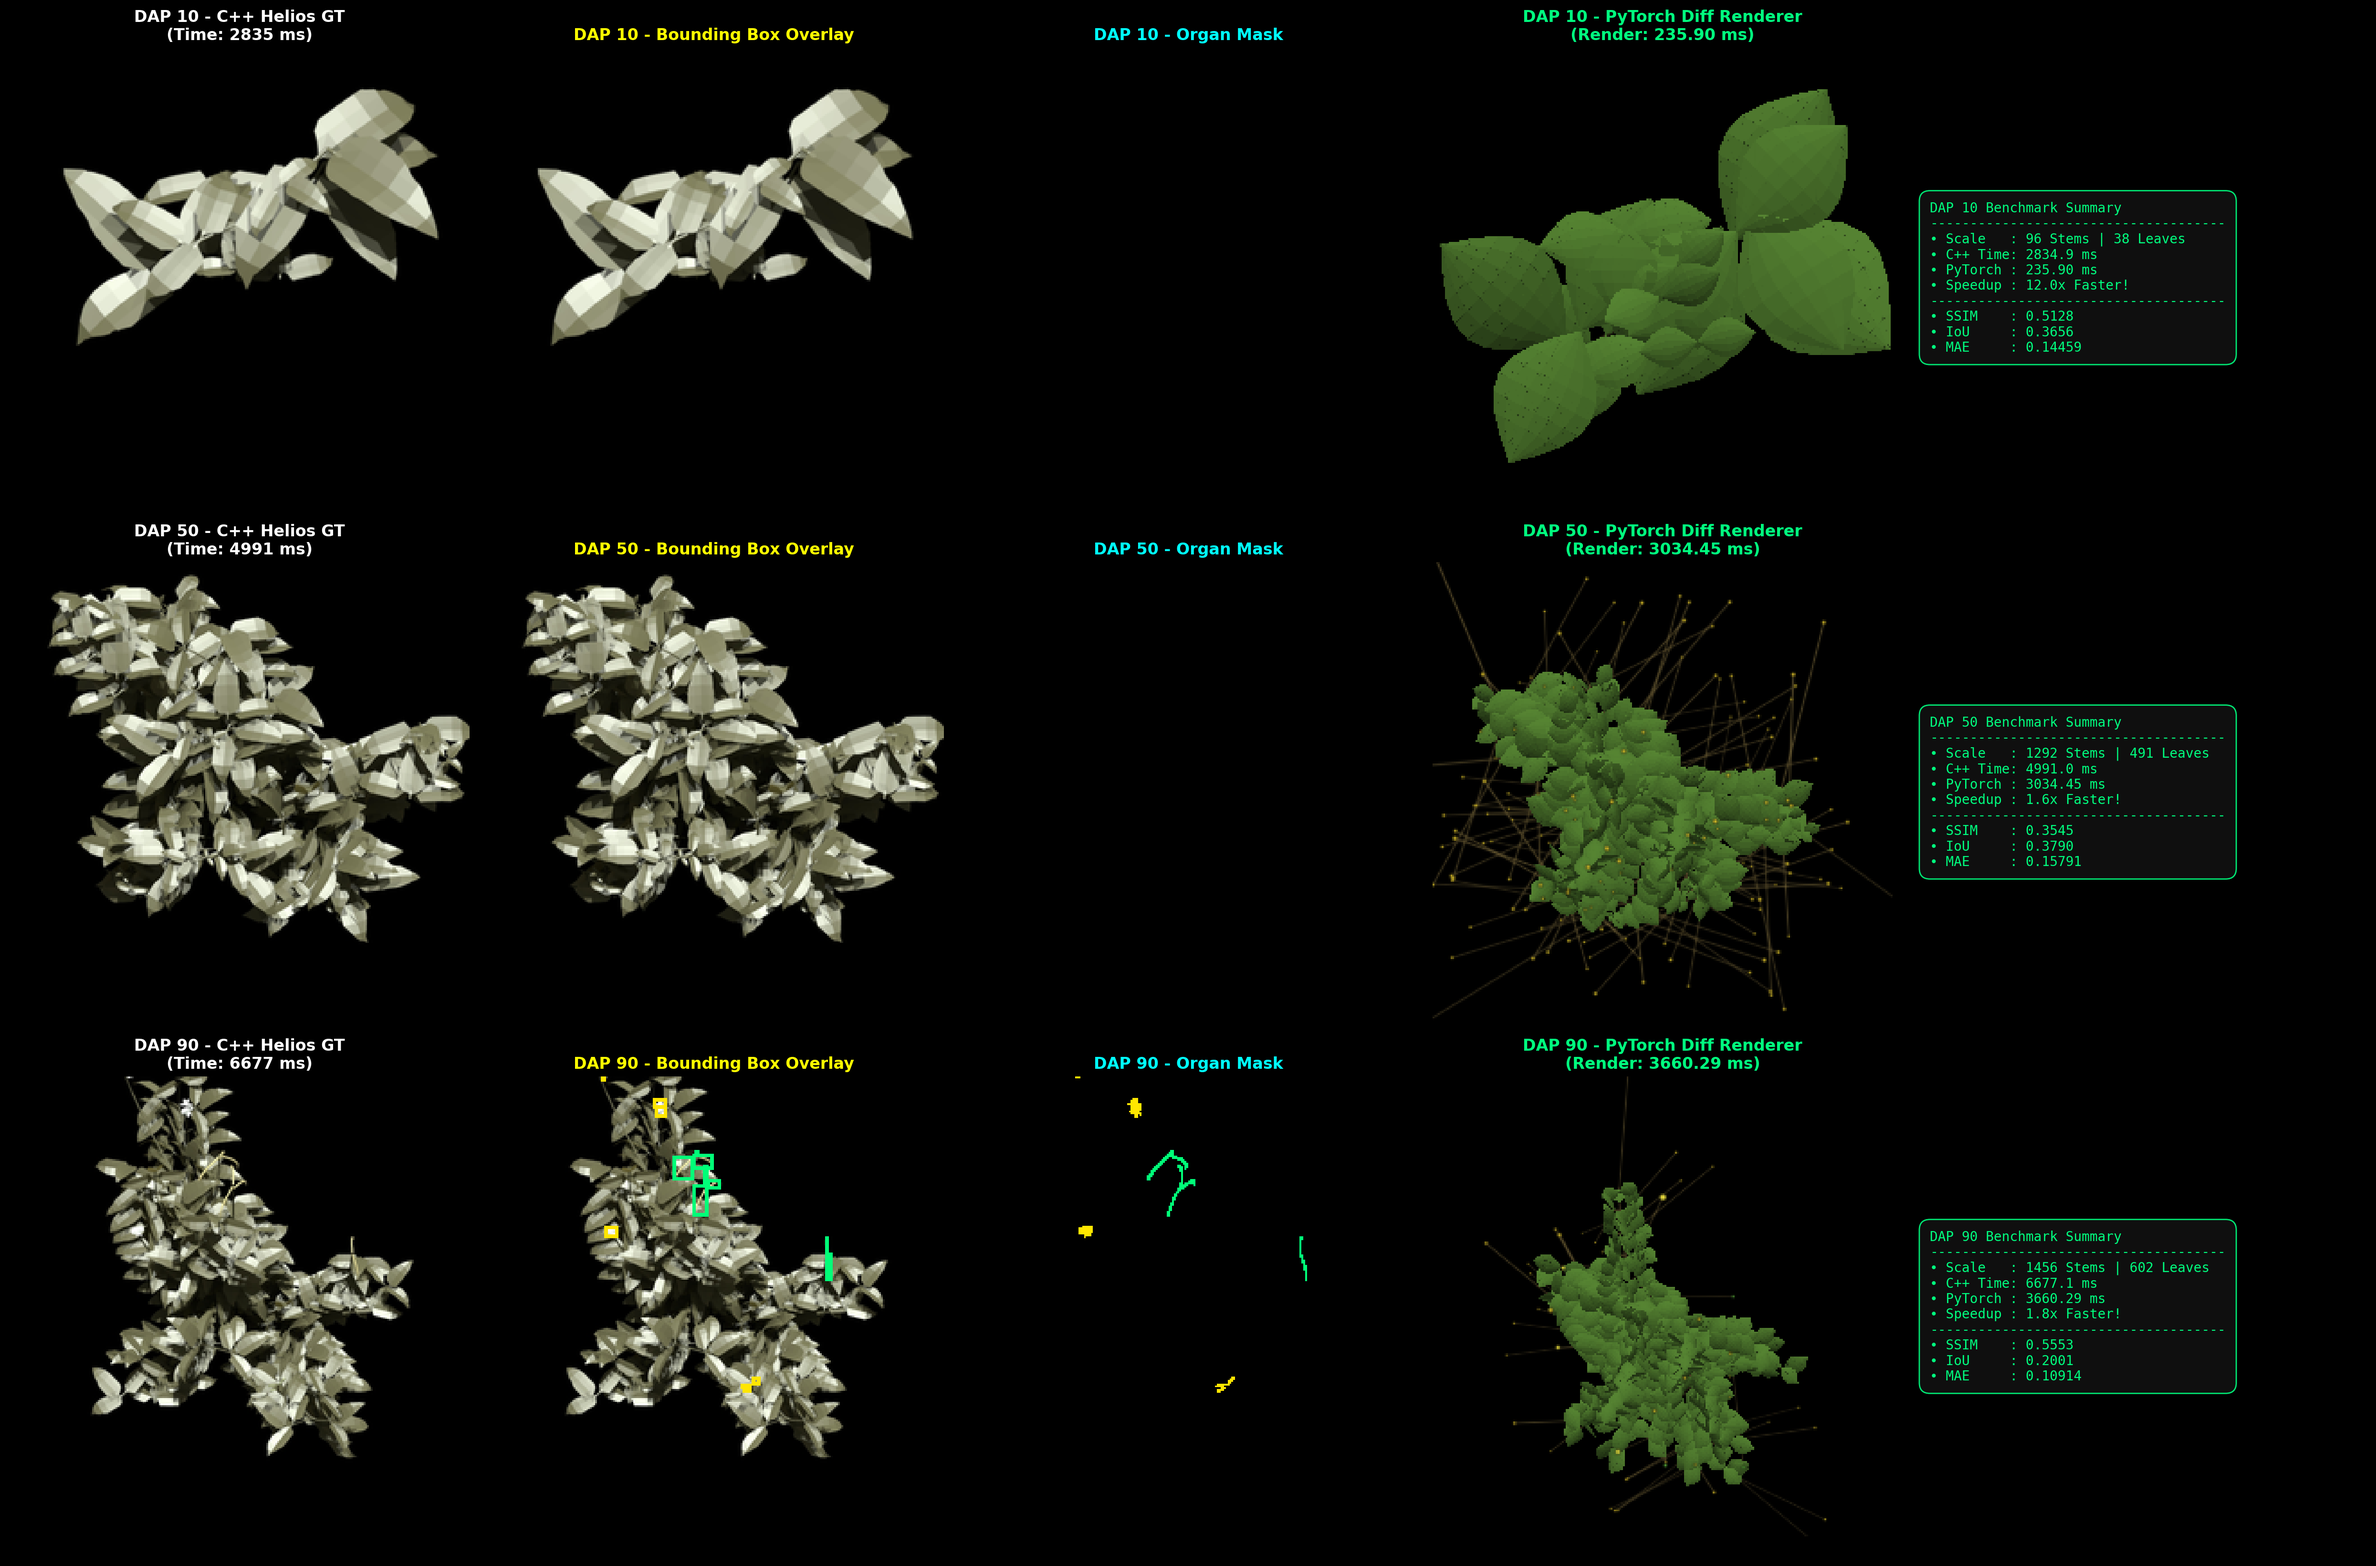
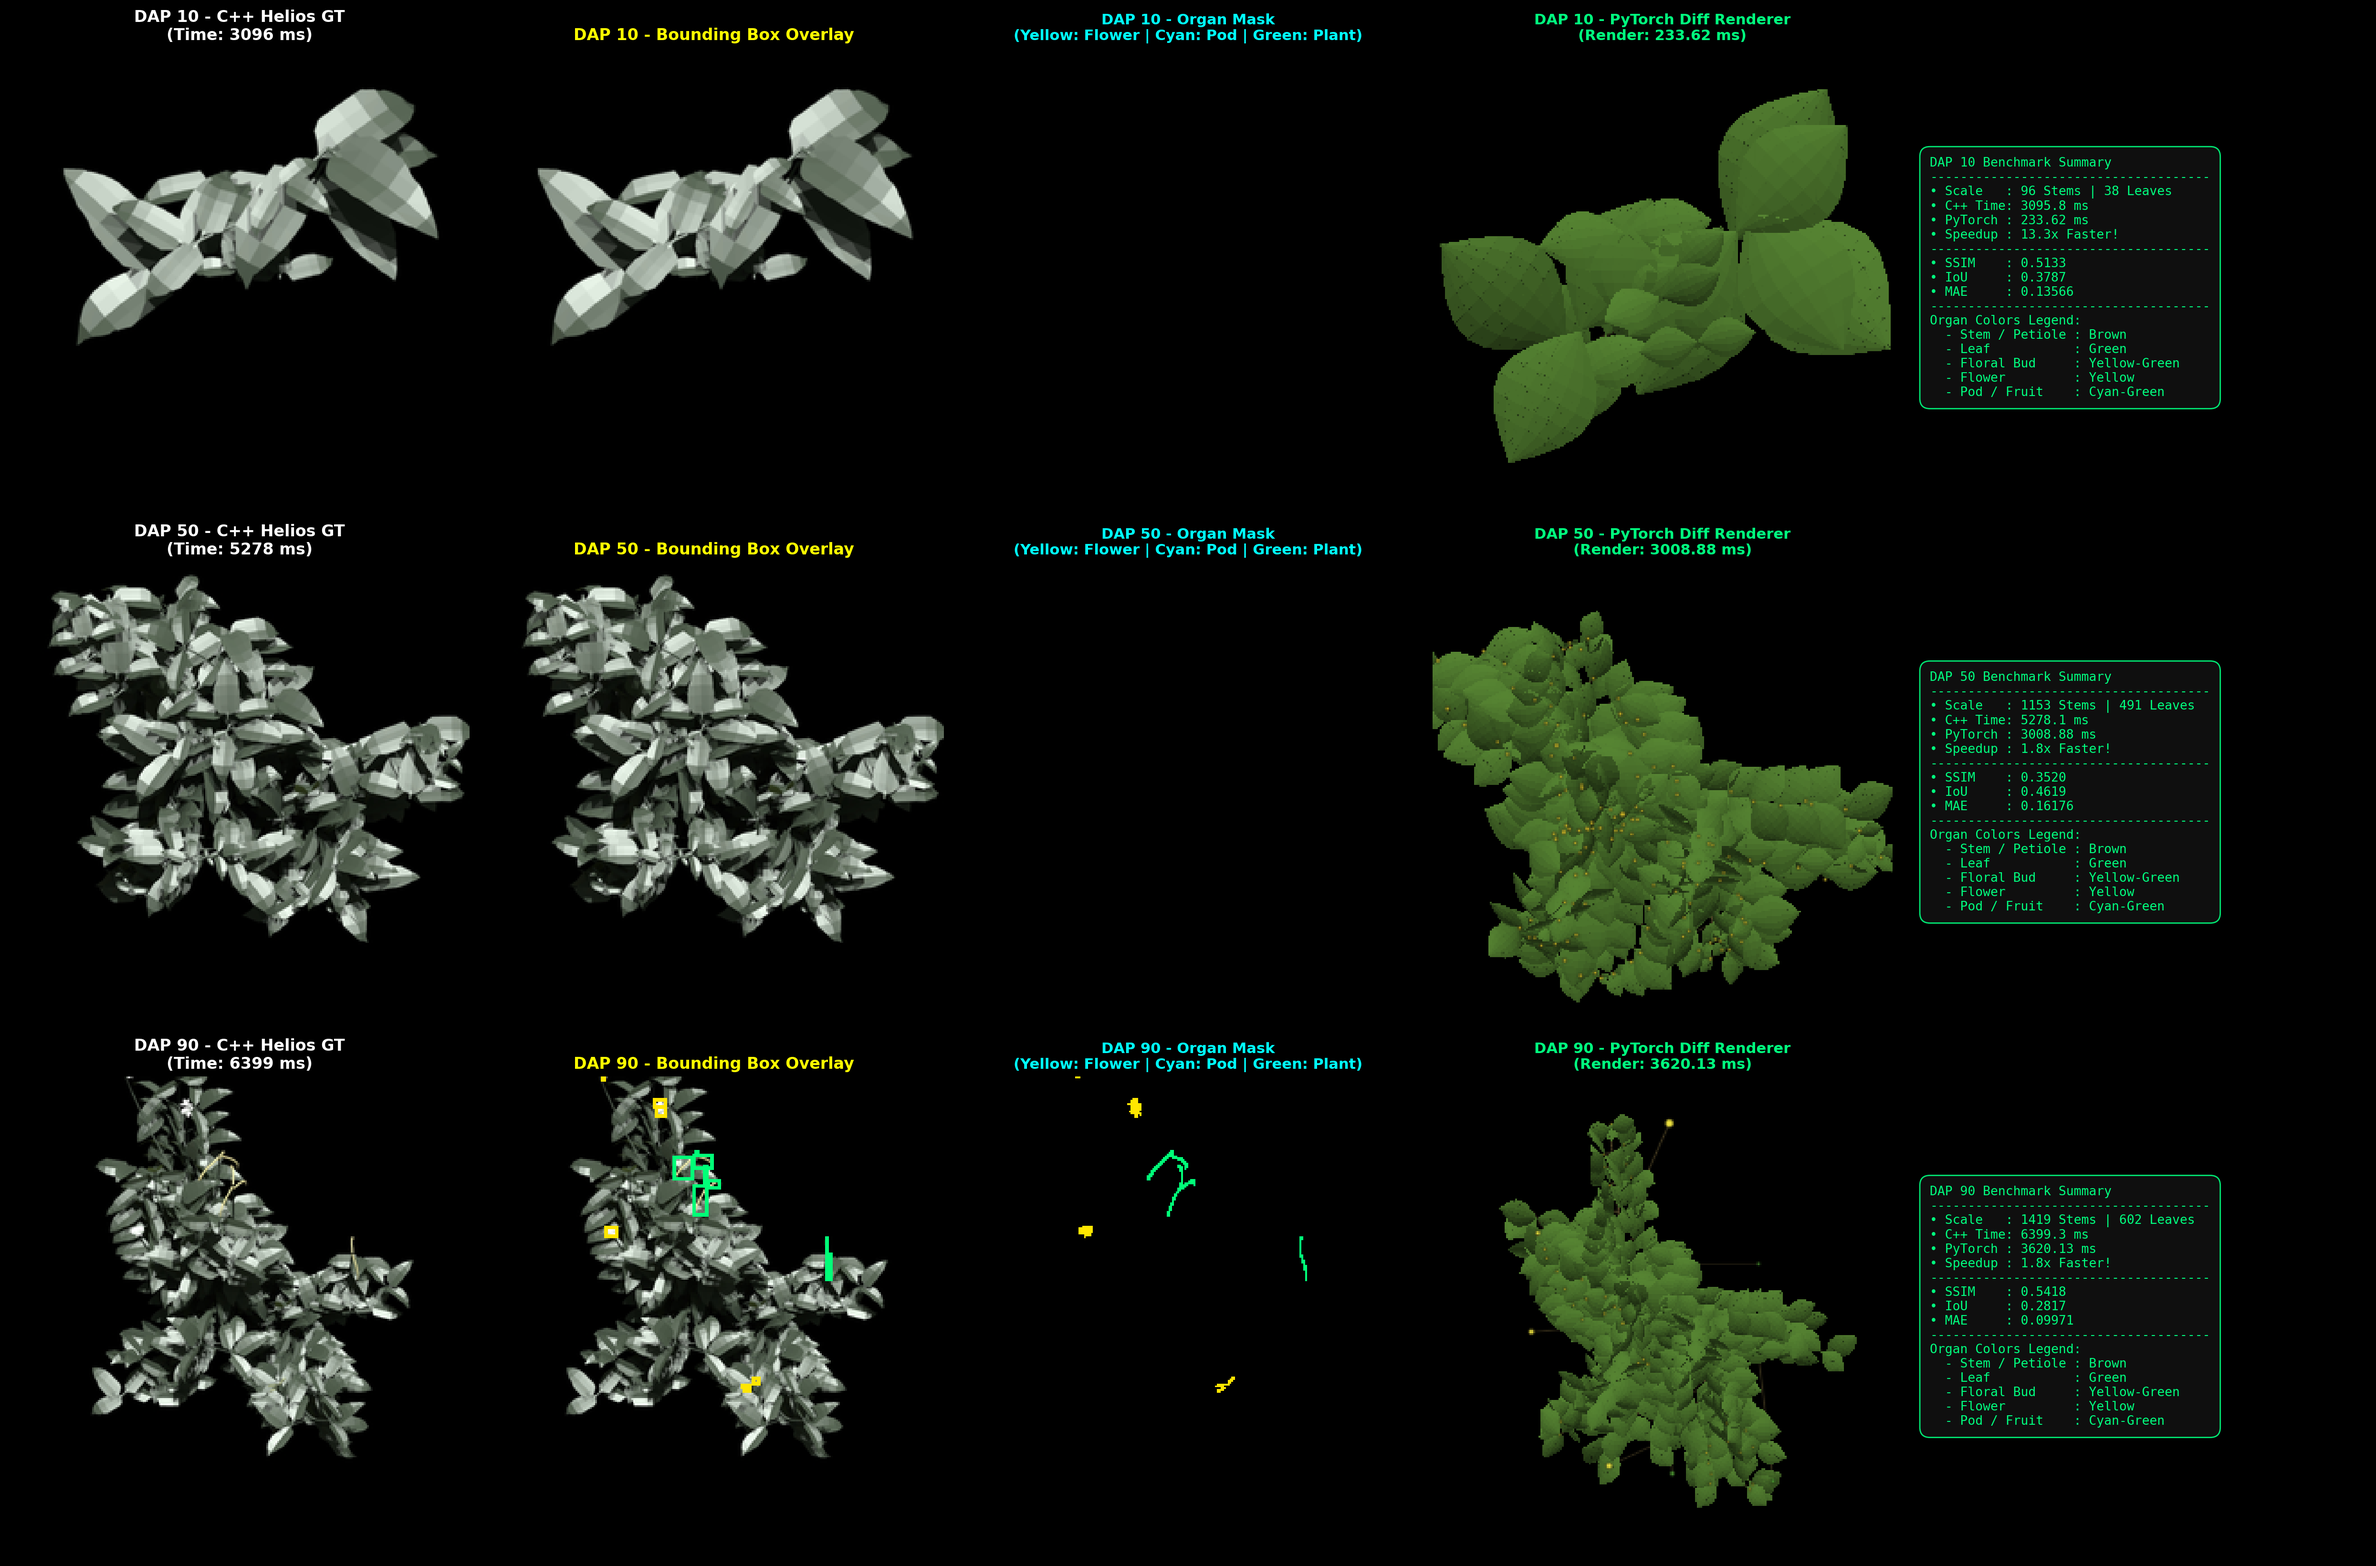
fix: Only extend peduncle stalks for expanded flowers/pods (state >= 2) and add organ color legend

diff --git a/diffusion_based/models/helios_geometry.py b/diffusion_based/models/helios_geometry.py
@@ -373,26 +373,37 @@ def build_helios_geometry_from_xml(xml_path: str) -> HeliosPlantGeometry:
                     if state in [0, 5]:
                         continue  # 0: BUD_DORMANT, 5: BUD_DEAD -> Skip
 
-                    # Add peduncle tube connecting petiole tip to flower/pod head
                     base_pos = fbud.get("base_pos", pet.get("tip_pos", phyt.internode_tip))
-                    head_pos = fbud.get("head_pos", base_pos)
-                    if np.linalg.norm(head_pos - base_pos) > 0.003:
-                        ped_r = fbud.get("peduncle_radius", 0.002)
-                        geom.tubes.append(HeliosTube(
-                            vertices=np.array([base_pos, head_pos], dtype=np.float32),
-                            radii=np.array([ped_r, ped_r], dtype=np.float32),
-                            organ=OrganNode3D.PETIOLE,
-                        ))
 
                     if state == 1:
+                        # BUD_ACTIVE: Unexpanded bud sits directly at petiole base, no long peduncle tube
                         organ = OrganNode3D.FLORAL_BUD
-                        head_r = 0.004  # 4mm active floral bud
+                        head_r = 0.003  # 3mm unexpanded floral bud
+                        head_pos = base_pos
                     elif state in [2, 3]:
+                        # BUD_FLOWER_CLOSED / OPEN: Flower blossom on extended peduncle stalk
                         organ = OrganNode3D.FLOWER
-                        head_r = 0.010  # 1cm open/closed flower blossom (yellow)
+                        head_r = 0.010  # 1cm flower blossom (yellow)
+                        head_pos = fbud.get("head_pos", base_pos)
+                        if np.linalg.norm(head_pos - base_pos) > 0.003:
+                            ped_r = fbud.get("peduncle_radius", 0.002)
+                            geom.tubes.append(HeliosTube(
+                                vertices=np.array([base_pos, head_pos], dtype=np.float32),
+                                radii=np.array([ped_r, ped_r], dtype=np.float32),
+                                organ=OrganNode3D.PETIOLE,
+                            ))
                     elif state == 4:
+                        # BUD_FRUITING: Pod / Fruit on extended peduncle stalk
                         organ = OrganNode3D.POD
-                        head_r = 0.006  # 6mm pod/fruit head (cyan-green)
+                        head_r = 0.006  # 6mm pod head (cyan-green)
+                        head_pos = fbud.get("head_pos", base_pos)
+                        if np.linalg.norm(head_pos - base_pos) > 0.003:
+                            ped_r = fbud.get("peduncle_radius", 0.002)
+                            geom.tubes.append(HeliosTube(
+                                vertices=np.array([base_pos, head_pos], dtype=np.float32),
+                                radii=np.array([ped_r, ped_r], dtype=np.float32),
+                                organ=OrganNode3D.PETIOLE,
+                            ))
                     else:
                         continue
 

diff --git a/notebooks/run_dap_multi_benchmark.py b/notebooks/run_dap_multi_benchmark.py
@@ -280,12 +280,12 @@ def main():
 
         # Col 2 (Col 3 user request): Organ Segmentation Mask
         axes[row_idx, 2].imshow(res["seg_mask_np"])
-        axes[row_idx, 2].set_title(f"DAP {dap} - Organ Mask", color="cyan", fontsize=12, fontweight="bold")
+        axes[row_idx, 2].set_title(f"DAP {dap} - Organ Mask\n(Yellow: Flower | Cyan: Pod | Green: Plant)", color="cyan", fontsize=11, fontweight="bold")
         axes[row_idx, 2].axis("off")
 
         # Col 3: PyTorch Differentiable Renderer
         axes[row_idx, 3].imshow(res["torch_rgb"])
-        axes[row_idx, 3].set_title(f"DAP {dap} - PyTorch Diff Renderer\n(Render: {res['torch_time_ms']:.2f} ms)", color="springgreen", fontsize=12, fontweight="bold")
+        axes[row_idx, 3].set_title(f"DAP {dap} - PyTorch Diff Renderer\n(Render: {res['torch_time_ms']:.2f} ms)", color="springgreen", fontsize=11, fontweight="bold")
         axes[row_idx, 3].axis("off")
 
         # Col 4: Difference Map & Summary Box
@@ -299,10 +299,17 @@ def main():
             f"-------------------------------------\n"
             f"• SSIM    : {res['ssim']:.4f}\n"
             f"• IoU     : {res['iou']:.4f}\n"
-            f"• MAE     : {res['mae']:.5f}"
+            f"• MAE     : {res['mae']:.5f}\n"
+            f"-------------------------------------\n"
+            f"Organ Colors Legend:\n"
+            f"  - Stem / Petiole : Brown\n"
+            f"  - Leaf           : Green\n"
+            f"  - Floral Bud     : Yellow-Green\n"
+            f"  - Flower         : Yellow\n"
+            f"  - Pod / Fruit    : Cyan-Green"
         )
         axes[row_idx, 4].text(
-            0.05, 0.5, summary_text, color="springgreen", fontsize=10, family="monospace",
+            0.05, 0.5, summary_text, color="springgreen", fontsize=9.5, family="monospace",
             verticalalignment="center", bbox=dict(boxstyle="round,pad=0.8", facecolor="#111111", edgecolor="springgreen", alpha=0.9)
         )
         axes[row_idx, 4].axis("off")
